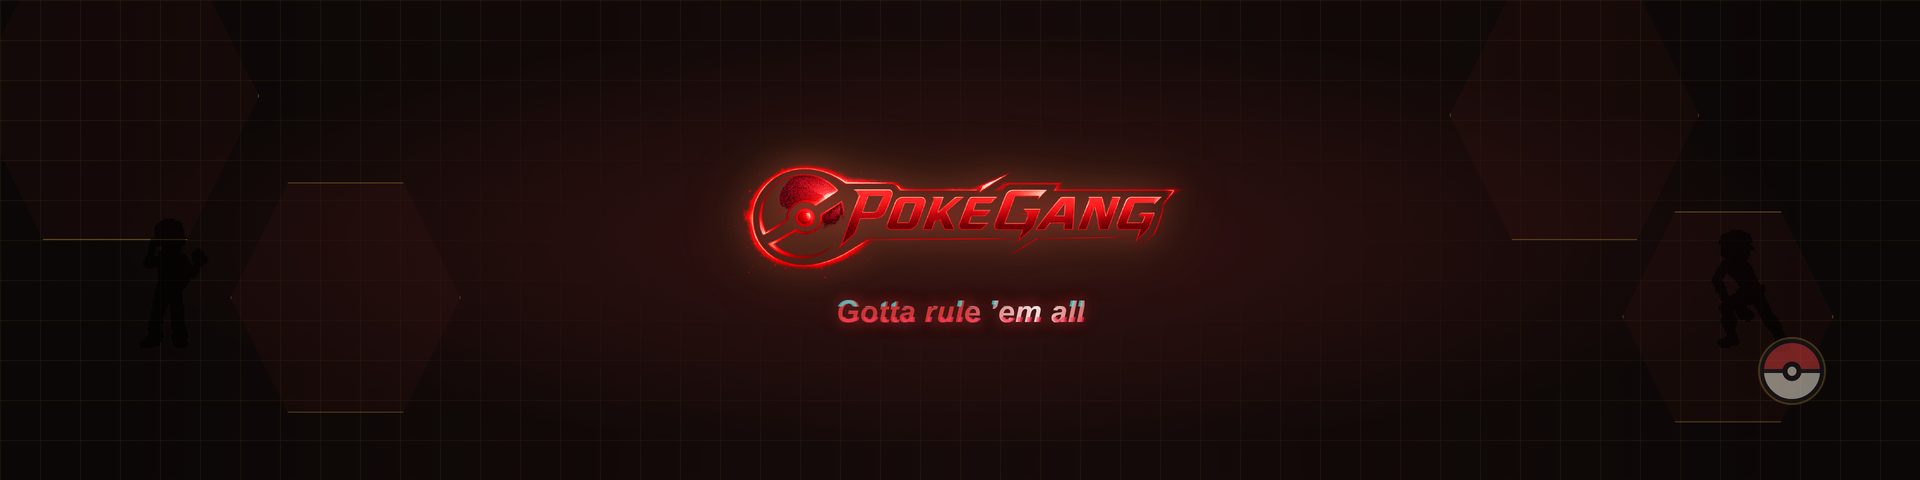
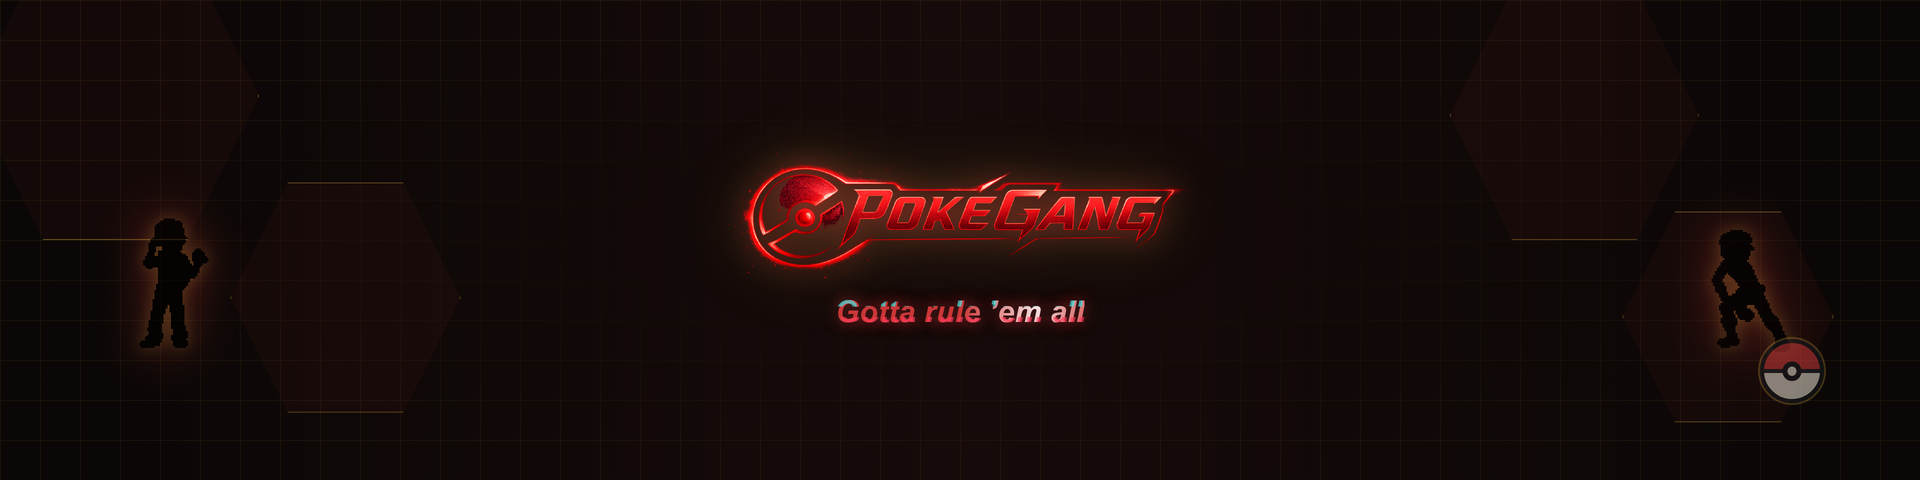
fix: it was the background red glow that needed toning down, not sprites
Miscommunication resolved: the earlier "smooth/remove the red effect"
feedback was about the radial red background glow behind the title
(.pg-cover / .pg-banner), not the trainer/agent silhouette highlight.
Revert pg-cover-boss/pg-banner-agent back to their highlighted glow
(gold rim + red halo, restored from ed04cb1) and instead drop the
background radial-gradient(...rgba(204,57,57,.18)...) entirely, down
to the plain linear-gradient base.

Regenerated itch-cover-preview-noball.gif (39 frames/3.2s, FASTOCTREE
180 colors, ~2.87MB) and itch-banner-preview.png.

Changed region(s): [[0.4375, 0.4688, 0.625, 0.625], [0.0625, 0.4375, 0.125, 0.75], [0.875, 0.4688, 0.9375, 0.7188]]

diff --git a/tools/screenshot-studio/studio.css b/tools/screenshot-studio/studio.css
@@ -1,9 +1,9 @@
 :root{--studio-bg:#090b10;--studio-panel:#10141d;--studio-line:rgba(255,255,255,.1);--studio-text:#e8ebf0;--studio-dim:#8c96a8;--studio-gold:#f7c948;--studio-green:#69d99b;--studio-sidebar-w:292px}*{box-sizing:border-box}html,body{margin:0;min-height:100%;background:var(--studio-bg)}body.studio-body{color:var(--studio-text);font-family:Inter,ui-sans-serif,system-ui,-apple-system,"Segoe UI",sans-serif;overflow:hidden}button,input,select{font:inherit}.studio-app{display:grid;grid-template-columns:var(--studio-sidebar-w) 1fr;width:100vw;height:100vh}.studio-sidebar{min-width:0;display:flex;flex-direction:column;border-right:1px solid var(--studio-line);background:linear-gradient(180deg,#10141d,#0c1017);overflow:hidden}.studio-brand{display:flex;gap:12px;align-items:center;padding:18px 18px 14px;border-bottom:1px solid var(--studio-line)}.studio-brand img{width:56px;height:56px;object-fit:contain}.studio-brand h1{margin:3px 0 0;font-size:14px}.studio-kicker{font-family:"Press Start 2P",monospace;font-size:7px;color:var(--studio-gold);letter-spacing:.08em;line-height:1.5}.studio-search-wrap{padding:12px;border-bottom:1px solid var(--studio-line)}.studio-search{width:100%;background:#090d13;border:1px solid var(--studio-line);color:#fff;border-radius:7px;padding:9px 10px;outline:none}.studio-search:focus{border-color:rgba(247,201,72,.55)}.studio-scene-list{flex:1;overflow:auto;padding:10px}.studio-scene-group{margin-bottom:14px}.studio-scene-group-title{padding:4px 7px 7px;color:#697488;font-family:"Press Start 2P",monospace;font-size:6px;letter-spacing:.08em}.studio-scene-btn{width:100%;display:grid;grid-template-columns:30px 1fr;gap:9px;text-align:left;margin:0 0 5px;padding:9px;border:1px solid transparent;border-radius:8px;color:#b8c0ce;background:transparent;cursor:pointer}.studio-scene-btn:hover{background:rgba(255,255,255,.045);color:#fff}.studio-scene-btn.active{background:rgba(247,201,72,.09);border-color:rgba(247,201,72,.28);color:#fff}.studio-scene-icon{width:30px;height:30px;display:grid;place-items:center;background:#0a0d13;border:1px solid var(--studio-line);border-radius:6px;font-size:16px}.studio-scene-btn strong{display:block;font-size:11px;line-height:1.25}.studio-scene-btn small{display:block;margin-top:3px;color:#707b8c;font-size:9px;line-height:1.25}.studio-sidebar-foot{display:flex;gap:8px;flex-wrap:wrap;padding:10px 12px;font-size:8px;color:#596273;border-top:1px solid var(--studio-line)}.studio-main{min-width:0;display:grid;grid-template-rows:auto 1fr auto}.studio-toolbar{display:flex;justify-content:space-between;align-items:center;gap:16px;padding:10px 14px;min-height:70px;border-bottom:1px solid var(--studio-line);background:rgba(15,19,27,.98)}.studio-toolbar-title{min-width:180px;max-width:400px}.studio-toolbar-title strong{display:block;margin-top:3px;font-size:14px}.studio-toolbar-title span{display:block;margin-top:3px;color:var(--studio-dim);font-size:10px;white-space:nowrap;overflow:hidden;text-overflow:ellipsis}.studio-controls{display:flex;align-items:flex-end;justify-content:flex-end;flex-wrap:wrap;gap:7px}.studio-control{display:flex;flex-direction:column;gap:3px;color:#7d8797;font-size:8px}.studio-control.compact{width:72px}.studio-control select,.studio-control input{height:30px;border-radius:6px;border:1px solid var(--studio-line);background:#090d13;color:#dce1e9;padding:0 8px;outline:none}.studio-control.compact input{width:72px}.studio-btn{height:30px;padding:0 10px;border-radius:6px;border:1px solid var(--studio-line);background:#111722;color:#aab4c4;cursor:pointer;font-size:9px}.studio-btn:hover{color:#fff}.studio-btn.active{color:var(--studio-green);border-color:rgba(105,217,155,.35)}.studio-btn.primary{color:#17120b;background:var(--studio-gold);border-color:var(--studio-gold);font-weight:700}.studio-stage-area{position:relative;min-height:0;overflow:hidden;display:grid;place-items:center;background:linear-gradient(45deg,#0b0e14 25%,transparent 25%),linear-gradient(-45deg,#0b0e14 25%,transparent 25%),linear-gradient(45deg,transparent 75%,#0b0e14 75%),linear-gradient(-45deg,transparent 75%,#0b0e14 75%),#0d1118;background-size:24px 24px;background-position:0 0,0 12px,12px -12px,-12px 0}.studio-stage-measure{transform-origin:center;box-shadow:0 16px 70px rgba(0,0,0,.52);flex:none}.shot-viewport{position:relative;width:1280px;height:720px;overflow:hidden;background:#080a0f;color:#e9edf2;container-type:size}.shot-viewport.no-animations *,.shot-viewport.no-animations *::before,.shot-viewport.no-animations *::after{animation-play-state:paused!important;transition-duration:0s!important;scroll-behavior:auto!important}.studio-statusbar{display:flex;align-items:center;gap:14px;min-height:34px;padding:6px 14px;color:#687284;font-size:9px;border-top:1px solid var(--studio-line);background:#0d1118}.studio-status-note{margin-left:auto;color:#526072}.studio-link-btn{border:0;background:transparent;color:#9faabb;cursor:pointer;font-size:9px}.studio-link-btn:hover{color:#fff;text-decoration:underline}body.clean-view{overflow:auto;display:grid;place-items:start center;background:#050608}body.clean-view .studio-app{display:block;width:auto;height:auto}body.clean-view .studio-sidebar,body.clean-view .studio-toolbar,body.clean-view .studio-statusbar{display:none!important}body.clean-view .studio-main,body.clean-view .studio-stage-area{display:block;overflow:visible}body.clean-view .studio-stage-measure{transform:none!important;box-shadow:none}.shot-scene{position:absolute;inset:0;overflow:hidden;background:#11151c;color:#e8e8ea;font-family:Arial,Helvetica,sans-serif;font-size:14px;--pg-gold:#f6c945;--pg-red:#cc3939;--pg-green:#61d08e;--pg-blue:#62a8f5;--pg-border:#383e49;--pg-panel:#181d25;--pg-card:#202630}.shot-scene *{box-sizing:border-box}.pg-game-shell{position:absolute;inset:0;display:grid;grid-template-rows:48px 38px 1fr;background:#0f1319}.pg-topbar{display:flex;align-items:center;gap:18px;padding:0 18px;background:#0d1016;border-bottom:1px solid #303640;font-family:"Press Start 2P",monospace;font-size:9px}.pg-topbar .gang{color:var(--pg-red);margin-right:auto;font-size:10px}.pg-topbar .stat{color:#c8ced8}.pg-topbar .stat b{color:var(--pg-gold)}.pg-tabs{display:flex;align-items:end;gap:2px;padding:5px 10px 0;background:#12171f;border-bottom:1px solid #353b46}.pg-tab{height:28px;padding:0 12px;display:grid;place-items:center;color:#717b8b;border:1px solid transparent;border-bottom:0;border-radius:5px 5px 0 0;font-family:"Press Start 2P",monospace;font-size:7px}.pg-tab.active{color:#f2d26d;background:#1b212a;border-color:#3a424f}.pg-content{position:relative;min-height:0;overflow:hidden;background:radial-gradient(circle at 50% -20%,rgba(80,102,118,.16),transparent 45%),#131821}.pg-panel{background:rgba(24,29,37,.96);border:1px solid #3a414c;border-radius:7px;box-shadow:0 12px 30px rgba(0,0,0,.25)}.pg-title{font-family:"Press Start 2P",monospace;font-size:10px;color:var(--pg-gold);letter-spacing:.05em}.pg-dim{color:#838d9c}.pg-zone-grid{height:100%;padding:18px;display:grid;grid-template-columns:repeat(4,minmax(0,1fr));gap:12px;align-content:start;overflow:hidden}.pg-zone-card{position:relative;min-height:128px;padding:12px;border:1px solid #363e49;border-radius:8px;overflow:hidden;background:linear-gradient(145deg,#202732,#171d25)}.pg-zone-card.locked{opacity:.42;filter:saturate(.5)}.pg-zone-name{position:relative;z-index:2;font-family:"Press Start 2P",monospace;font-size:8px;color:#e9edf2}.pg-zone-card .meta{position:absolute;left:12px;bottom:10px;right:12px;display:flex;justify-content:space-between;font-size:9px;color:#8e99a9;z-index:2}.pg-zone-bg{position:absolute;inset:0;opacity:.2;background:linear-gradient(135deg,#426d4d,#234b3c 45%,#101820)}.pg-zone-card.forest .pg-zone-bg{background:linear-gradient(135deg,#2a6b3d,#184d31,#0a2015)}.pg-zone-card.city .pg-zone-bg{background:linear-gradient(135deg,#5d523f,#40362a,#1b1b20)}.pg-zone-card.special .pg-zone-bg{background:linear-gradient(135deg,#654b78,#332f65,#17152e)}.pg-zone-window{position:absolute;left:42px;right:42px;bottom:30px;height:265px;overflow:hidden;border:1px solid #49515e;border-radius:10px;background:linear-gradient(#2f4635,#24382f 58%,#18241f);box-shadow:0 20px 55px rgba(0,0,0,.5)}.pg-zone-window::after{content:"";position:absolute;left:0;right:0;bottom:0;height:34%;background:repeating-linear-gradient(90deg,rgba(0,0,0,.08) 0 12px,rgba(255,255,255,.02) 12px 24px)}.pg-zone-header{position:absolute;z-index:6;top:0;left:0;right:0;display:flex;align-items:center;gap:12px;padding:10px 13px;background:rgba(10,13,17,.78);border-bottom:1px solid rgba(255,255,255,.12)}.pg-zone-header .pg-title{margin-right:auto}.pg-sprite{position:absolute;z-index:4;image-rendering:pixelated;filter:drop-shadow(0 6px 5px rgba(0,0,0,.45))}.pg-pokemon{width:84px;height:84px}.pg-trainer{width:78px;height:78px;object-fit:contain}.pg-arrow{position:absolute;z-index:8;color:#ffe069;font-size:38px;text-shadow:0 2px 9px #000;animation:arrowBounce .8s ease-in-out infinite}.pg-speech{position:absolute;z-index:9;max-width:440px;padding:10px 13px;background:#f4f0df;color:#222;border:3px solid #303030;border-radius:8px;font-size:13px;line-height:1.35;box-shadow:5px 6px 0 rgba(0,0,0,.23)}.pg-speech::after{content:"";position:absolute;bottom:-13px;left:28px;border:7px solid transparent;border-top-color:#303030}.pg-modal-backdrop{position:absolute;z-index:40;inset:0;background:rgba(0,0,0,.7);display:grid;place-items:center;padding:30px}.pg-modal{width:min(660px,90%);padding:20px;background:#171d25;border:2px solid #625126;border-radius:9px;box-shadow:0 24px 70px rgba(0,0,0,.65)}.pg-modal h2{margin:0 0 9px;font-family:"Press Start 2P",monospace;font-size:12px;color:#f3c951}.pg-modal p{margin:8px 0;color:#b7c0cd;line-height:1.55}.pg-btn-row{display:flex;justify-content:flex-end;gap:8px;margin-top:18px}.pg-action-btn{padding:9px 15px;background:#0e1218;border:1px solid #4d5562;border-radius:6px;color:#cbd3dd;font-family:"Press Start 2P",monospace;font-size:7px;cursor:pointer}.pg-action-btn.primary{border-color:#b98733;color:#f1cc6b}.pg-team-row{display:flex;gap:9px;flex-wrap:wrap}.pg-poke-chip{position:relative;width:82px;height:96px;border:1px solid #414a57;border-radius:7px;background:#10151c;display:flex;flex-direction:column;align-items:center;justify-content:center;gap:3px}.pg-poke-chip img{width:58px;height:58px;image-rendering:pixelated}.pg-poke-chip small{font-size:8px;color:#8993a3}.pg-stars{color:#f5cd53;letter-spacing:1px;font-size:9px}.pg-agent-layout{padding:18px;display:grid;grid-template-columns:1.1fr .9fr;gap:15px;height:100%}.pg-agent-card{padding:14px;display:grid;grid-template-columns:92px 1fr;gap:15px;align-items:start}.pg-agent-card .portrait{width:86px;height:86px;display:grid;place-items:center;background:#10151b;border:1px solid #3b4450;border-radius:8px}.pg-agent-card .portrait img{width:72px;height:72px;object-fit:contain;image-rendering:pixelated}.pg-switches{display:flex;gap:7px;flex-wrap:wrap;margin-top:10px}.pg-switch{padding:6px 9px;border-radius:999px;font-size:9px;border:1px solid #48515f;color:#929baa;background:#10141a;cursor:pointer}.pg-switch.on{color:#81dca4;border-color:#397954;background:rgba(54,128,80,.12)}.pg-pokedex{height:100%;padding:16px;display:flex;flex-direction:column;gap:12px}.pg-pokedex-head{display:flex;align-items:center;gap:12px}.pg-pokedex-head .pg-title{margin-right:auto}.pg-dex-progress{font-family:"Press Start 2P",monospace;font-size:8px;color:#d5b956}.pg-dex-grid{display:grid;grid-template-columns:repeat(10,1fr);gap:7px;min-height:0;overflow:hidden}.pg-dex-tile{position:relative;aspect-ratio:1;display:grid;place-items:center;border:1px solid #323b47;border-radius:6px;background:#111720;overflow:hidden}.pg-dex-tile img{width:75%;height:75%;object-fit:contain;image-rendering:pixelated}.pg-dex-tile.unknown img{filter:brightness(0);opacity:.34}.pg-dex-tile.shiny{border-color:#d5b94c;box-shadow:inset 0 0 18px rgba(246,210,69,.18)}.pg-dex-tile .dex-no{position:absolute;top:4px;left:5px;color:#626d7b;font-size:7px}.pg-dex-tile.reveal{animation:dexReveal .55s cubic-bezier(.2,.8,.2,1) both}.pg-market,.pg-missions,.pg-gang-layout{height:100%;padding:18px;display:grid;gap:14px}.pg-market{grid-template-columns:1.15fr .85fr}.pg-missions{grid-template-columns:1fr .9fr}.pg-gang-layout{grid-template-columns:360px 1fr}.pg-shop-grid{display:grid;grid-template-columns:repeat(3,1fr);gap:9px;margin-top:12px}.pg-shop-card{min-height:120px;padding:11px;border:1px solid #3d4551;border-radius:8px;background:#131923;display:flex;flex-direction:column;gap:7px}.pg-shop-card .icon{font-size:28px}.pg-price{margin-top:auto;color:#f1cb59;font-family:"Press Start 2P",monospace;font-size:7px}.pg-mission-list{display:flex;flex-direction:column;gap:8px;margin-top:12px}.pg-mission{padding:11px;border:1px solid #3a424e;border-radius:7px;background:#121821}.pg-mission-row{display:flex;gap:8px;align-items:center}.pg-mission-row .reward{margin-left:auto;color:#f3cc59;font-size:9px}.pg-progress{height:5px;margin-top:8px;background:#252d38;border-radius:999px;overflow:hidden}.pg-progress>span{display:block;height:100%;background:#55c887}.pg-boss-card{padding:16px;display:flex;flex-direction:column;gap:12px}.pg-boss-head{display:flex;gap:14px;align-items:center}.pg-boss-head img{width:96px;height:96px;object-fit:contain;image-rendering:pixelated}.pg-showcase{display:grid;grid-template-columns:repeat(3,1fr);gap:8px}.pg-capture-stage{position:absolute;inset:0;background:radial-gradient(circle at 50% 40%,rgba(98,168,245,.14),transparent 38%),linear-gradient(#1d3428,#15261f);overflow:hidden}.pg-capture-mon{position:absolute;width:148px;height:148px;left:calc(50% - 74px);top:135px;image-rendering:pixelated;filter:drop-shadow(0 12px 8px rgba(0,0,0,.4));animation:monPulse 1.8s ease-in-out infinite}.pg-ball{position:absolute;left:calc(50% - 28px);top:390px;width:56px;height:56px;animation:ballWobble 1.6s ease-in-out infinite;transform-origin:50% 85%}.pg-ball::before{content:"";position:absolute;inset:0;border-radius:50%;background:linear-gradient(#da3d3d 0 46%,#20242a 46% 54%,#eee 54%);border:3px solid #20242a;box-shadow:0 9px 14px rgba(0,0,0,.38)}.pg-ball::after{content:"";position:absolute;width:15px;height:15px;border:4px solid #20242a;border-radius:50%;background:#fff;left:17px;top:20px}.pg-capture-stars{position:absolute;left:50%;top:345px;transform:translateX(-50%);color:#ffe064;font-size:25px;letter-spacing:7px;animation:starPop 1.5s ease-in-out infinite}.pg-popup{position:absolute;z-index:50;min-width:300px;background:#11161d;border:2px solid #4a5360;border-radius:9px;box-shadow:0 18px 55px rgba(0,0,0,.5);padding:12px 14px;display:flex;align-items:center;gap:12px}.pg-popup.shiny{top:18px;left:50%;transform:translateX(-50%);border-color:#e1c246;box-shadow:0 0 34px rgba(255,219,71,.28)}.pg-popup.rare{right:18px;bottom:18px;border-color:#66a9ef}.pg-popup img{width:68px;height:68px;image-rendering:pixelated}.pg-popup .label{font-family:"Press Start 2P",monospace;font-size:8px;color:#f1d45f;line-height:1.5}.pg-unlock{width:min(620px,80%);text-align:center}.pg-unlock .big{font-family:"Press Start 2P",monospace;color:#f3cb58;font-size:15px;line-height:1.5}.pg-unlock .zone{margin:17px 0 4px;font-family:"Press Start 2P",monospace;color:#fff;font-size:18px}.pg-unlock .rep{color:#9ba5b4}.pg-legendary-stage{position:absolute;inset:0;background:linear-gradient(180deg,#321b17,#1f1517 44%,#0e1117)}.pg-legendary-stage img.enemy{position:absolute;right:110px;top:90px;width:210px;height:210px;image-rendering:pixelated;filter:drop-shadow(0 12px 22px rgba(255,80,40,.35))}.pg-legendary-stage img.player{position:absolute;left:120px;bottom:95px;width:150px;height:150px;image-rendering:pixelated}.pg-hpbox{position:absolute;width:310px;padding:10px 12px;background:#f1f0e8;border:3px solid #242424;color:#222;border-radius:7px;box-shadow:4px 5px 0 rgba(0,0,0,.25)}.pg-hpbox.enemy{left:44px;top:62px}.pg-hpbox.player{right:44px;bottom:60px}.pg-hpname{font-family:"Press Start 2P",monospace;font-size:9px}.pg-hpbar{margin-top:8px;height:10px;background:#373737;border-radius:999px;overflow:hidden}.pg-hpbar span{display:block;height:100%;background:#68c779}.pg-battle-actions{position:absolute;left:42px;right:42px;bottom:20px;display:grid;grid-template-columns:1.5fr 1fr;gap:10px}.pg-dialogbox{padding:14px;min-height:86px;background:#f0efe7;color:#232323;border:3px solid #252525;border-radius:7px;font-size:14px;line-height:1.45}.pg-action-grid{display:grid;grid-template-columns:1fr 1fr;gap:7px}.pg-action-grid button{border:2px solid #272727;background:#f0efe7;border-radius:6px;color:#222;font-weight:700}.pg-giovanni{position:absolute;inset:0;display:flex;flex-direction:column;align-items:center;justify-content:flex-end;background:linear-gradient(160deg,#09090f,#140808 55%,#0a0a0f);padding-bottom:24px}.pg-giovanni .portrait{position:absolute;top:28px;width:150px;height:150px;object-fit:contain;image-rendering:pixelated;filter:drop-shadow(0 9px 24px rgba(180,20,20,.42));animation:shotBounce 2.8s ease-in-out infinite}.pg-giovanni-content{width:min(580px,88%);min-height:185px;display:flex;align-items:end;justify-content:center}.pg-giovanni-dialog{width:min(580px,88%);background:rgba(6,6,10,.96);border:2px solid rgba(180,30,30,.65);border-radius:8px;padding:16px 18px;box-shadow:0 0 35px rgba(0,0,0,.5)}.pg-giovanni-name{color:#ce4747;font-family:"Press Start 2P",monospace;font-size:7px;margin-bottom:9px}.pg-input{width:100%;margin-top:13px;padding:10px 12px;color:#eee;background:#18151a;border:1px solid #8b2c2c;border-radius:6px}.pg-guide-badge{position:absolute;left:28px;bottom:24px;z-index:20;width:310px;padding:11px;display:flex;gap:10px;align-items:center;background:rgba(12,16,21,.94);border:1px solid #c0963f;border-radius:9px;box-shadow:0 12px 35px rgba(0,0,0,.38)}.pg-guide-badge img{width:64px;height:64px;image-rendering:pixelated}.pg-guide-badge strong{font-family:"Press Start 2P",monospace;font-size:8px;color:#f2ca59}.pg-guide-badge p{margin:5px 0 0;color:#b8c0cc;font-size:10px;line-height:1.35}@keyframes arrowBounce{50%{transform:translateY(10px)}}@keyframes dexReveal{from{opacity:0;transform:scale(.45) rotate(-7deg)}to{opacity:1;transform:none}}@keyframes ballWobble{0%,100%{transform:rotate(0)}25%{transform:rotate(-14deg)}50%{transform:rotate(12deg)}75%{transform:rotate(-7deg)}}@keyframes monPulse{50%{transform:scale(1.045)}}@keyframes starPop{0%,100%{opacity:.55;transform:translateX(-50%) scale(.92)}50%{opacity:1;transform:translateX(-50%) scale(1.12)}}@keyframes shotBounce{50%{transform:translateY(-8px)}}@media(max-width:900px){.studio-app{grid-template-columns:220px 1fr}.studio-toolbar{align-items:flex-start}.studio-toolbar-title{display:none}}
-.pg-cover{position:absolute;inset:0;overflow:hidden;display:flex;flex-direction:column;align-items:center;background:radial-gradient(ellipse at 50% 32%,rgba(204,57,57,.18),transparent 55%),linear-gradient(180deg,#150a0a 0%,#0e0a08 52%,#07080a 100%)}
+.pg-cover{position:absolute;inset:0;overflow:hidden;display:flex;flex-direction:column;align-items:center;background:linear-gradient(180deg,#150a0a 0%,#0e0a08 52%,#07080a 100%)}
 .pg-cover-grid{position:absolute;inset:0;opacity:.12;background-image:linear-gradient(rgba(247,201,72,.6) 1px,transparent 1px),linear-gradient(90deg,rgba(247,201,72,.6) 1px,transparent 1px);background-size:38px 38px;-webkit-mask-image:radial-gradient(ellipse at 50% 62%,#000 8%,transparent 68%);mask-image:radial-gradient(ellipse at 50% 62%,#000 8%,transparent 68%)}
 .pg-cover-corner{position:absolute;z-index:5;display:flex;gap:6px;align-items:center;padding:6px 9px;background:rgba(10,13,17,.72);border:1px solid rgba(247,201,72,.32);border-radius:6px;font-family:"Press Start 2P",monospace;font-size:8px;color:#e8ce8a}
 .pg-cover-corner b{color:var(--pg-gold)}
-.pg-cover-boss{position:absolute;width:clamp(52px,11.5cqw,72px);height:clamp(52px,11.5cqw,72px);object-fit:contain;image-rendering:pixelated;filter:brightness(0);opacity:.68}
+.pg-cover-boss{position:absolute;width:clamp(52px,11.5cqw,72px);height:clamp(52px,11.5cqw,72px);object-fit:contain;image-rendering:pixelated;filter:brightness(0) drop-shadow(0 0 10px rgba(247,201,72,.4)) drop-shadow(0 0 28px rgba(224,60,50,.75));opacity:.68}
 .pg-cover-shade-top{position:absolute;left:0;right:0;top:0;height:26%;background:linear-gradient(180deg,rgba(5,4,3,.6),transparent);pointer-events:none}
 .pg-cover-shade-bottom{position:absolute;left:0;right:0;bottom:0;height:16%;background:linear-gradient(0deg,rgba(5,4,3,.55),transparent);pointer-events:none}
 .pg-cover-head{margin-top:clamp(16px,5%,40px);text-align:center;padding:0 16px}
@@ -21,10 +21,10 @@
 @keyframes coverShine{0%{background-position:200% 0}100%{background-position:-140% 0}}
 @keyframes coverGlitchA{0%,78%,100%{clip-path:inset(0 0 62% 0);transform:translate(-2px,0)}80%{clip-path:inset(0 0 30% 0);transform:translate(-6px,-1px)}84%{clip-path:inset(0 0 70% 0);transform:translate(3px,1px)}88%{clip-path:inset(0 0 62% 0);transform:translate(-2px,0)}}
 @keyframes coverGlitchB{0%,78%,100%{clip-path:inset(62% 0 0 0);transform:translate(2px,0)}80%{clip-path:inset(30% 0 0 0);transform:translate(6px,1px)}84%{clip-path:inset(75% 0 0 0);transform:translate(-3px,-1px)}88%{clip-path:inset(62% 0 0 0);transform:translate(2px,0)}}
-.pg-banner{position:absolute;inset:0;overflow:hidden;display:flex;align-items:center;justify-content:center;background:radial-gradient(ellipse at 50% 50%,rgba(204,57,57,.18),transparent 62%),linear-gradient(90deg,#0a0706 0%,#160b0a 50%,#0a0706 100%)}
+.pg-banner{position:absolute;inset:0;overflow:hidden;display:flex;align-items:center;justify-content:center;background:linear-gradient(90deg,#0a0706 0%,#160b0a 50%,#0a0706 100%)}
 .pg-banner-grid{position:absolute;inset:0;opacity:.11;background-image:linear-gradient(rgba(247,201,72,.55) 1px,transparent 1px),linear-gradient(90deg,rgba(247,201,72,.55) 1px,transparent 1px);background-size:40px 40px;-webkit-mask-image:radial-gradient(ellipse at 50% 50%,transparent 22%,#000 72%);mask-image:radial-gradient(ellipse at 50% 50%,transparent 22%,#000 72%)}
 .pg-banner-sector{position:absolute;aspect-ratio:1;transform:translate(-50%,-50%);border:1px solid rgba(247,201,72,.35);clip-path:polygon(25% 0,75% 0,100% 50%,75% 100%,25% 100%,0 50%);background:rgba(204,57,57,.05);pointer-events:none}
-.pg-banner-agent{position:absolute;width:14cqw;max-width:150px;transform:translate(-50%,-50%);object-fit:contain;image-rendering:pixelated;filter:brightness(0);opacity:.58;pointer-events:none}
+.pg-banner-agent{position:absolute;width:14cqw;max-width:150px;transform:translate(-50%,-50%);object-fit:contain;image-rendering:pixelated;filter:brightness(0) drop-shadow(0 0 8px rgba(247,201,72,.4)) drop-shadow(0 0 24px rgba(224,60,50,.7));opacity:.58;pointer-events:none}
 .pg-banner-ball{position:absolute;right:5%;bottom:16%;width:7cqw;max-width:64px;aspect-ratio:1;opacity:.55;pointer-events:none}
 .pg-banner-ball::before{content:"";position:absolute;inset:0;border-radius:50%;background:linear-gradient(#c93a3a 0 46%,#20242a 46% 54%,#e8e2d2 54%);border:4px solid #171a1f;box-shadow:0 0 0 2px rgba(247,201,72,.4)}
 .pg-banner-ball::after{content:"";position:absolute;width:30%;height:30%;left:35%;top:35%;border-radius:50%;background:#e8e2d2;border:5px solid #171a1f}
